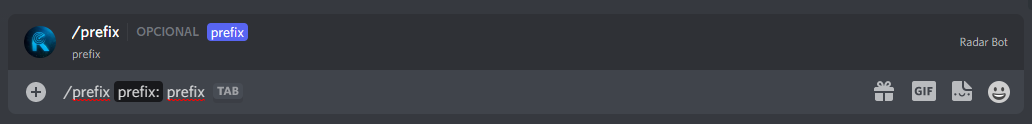
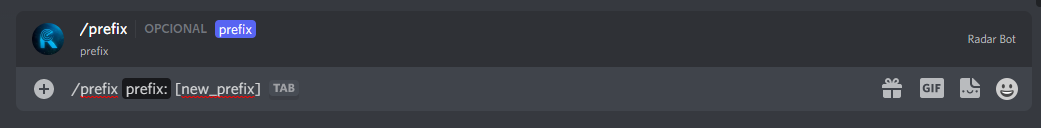
Finish change prefix documentation

diff --git a/docs-en/guides/chance-prefix.md b/docs-en/guides/chance-prefix.md
@@ -1,13 +1,19 @@
 ### Change Prefix
 
-{% tabs %}
-{% tab title="Explanation" %}
+
 **To change the bot's prefix, use this command:**&#x20;
 
-{% hint style="success" %}
-/prefix \[new\_prefix]
+*/prefix \[new\_prefix]*
 
-![Setup Prefix](assets/prefix.png)
+![Setup Prefix](../assets/prefix.png)
+
+**The bot will respond:**
+
+![Setup Prefix](../assets/responsebotprefix.png)
+
+
+**And ready you changed the profile on your server**
+
+{% hint style="warning" %}
+Only server administrators (users with`ADMINISTRATOR`permission) can modify RadarBot prefix settings!
 {% endhint %}
-{% endtab %}
-{% endtabs %}
